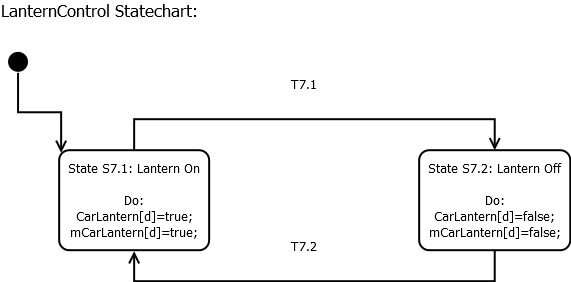
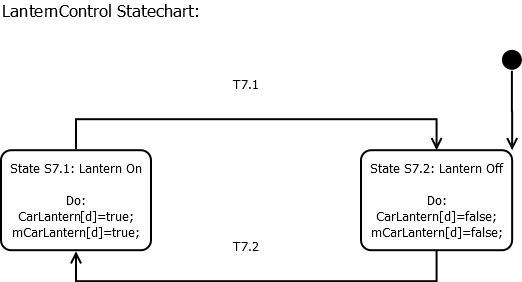
Did editing for req file -Harsha

diff --git a/portfolio_template/reqs/requirements2.html b/portfolio_template/reqs/requirements2.html
@@ -55,6 +55,7 @@
 
 
 
+
     Sally Stevenson (ststeven)<br>
     &nbsp;&nbsp;&nbsp; &nbsp;&nbsp;&nbsp; &nbsp;&nbsp;&nbsp;
     &nbsp;&nbsp;&nbsp;&nbsp;&nbsp; Sri Harsha Koppaka (skoppaka)<br>
@@ -1071,11 +1072,13 @@
     DoorMotor[b,r]<br>
     <p class="MsoNormal" style=""> </p>
     <h3>Time-Triggered Statechart</h3>
-    <p><a href="sc5.png"><img alt="DoorControl Statechart" src="sc5.png"></a><br
-        clear="left">
+    <p><a href="doorcontrol_state_diagram.png"><img alt="DoorControl
+          Statechart" src="doorcontrol_state_diagram.png" height="512"
+          border="0" width="766"></a><br>
+      <br clear="left">
     </p>
-    <table style="text-align: left;" border="1" cellpadding="2"
-      cellspacing="2" height="185" width="526">
+    <table style="text-align: left;" height="185" border="1"
+      cellpadding="2" cellspacing="2" width="526">
       <tbody>
         <tr>
           <td style="vertical-align: top; font-weight: bold;
@@ -1124,8 +1127,8 @@
     </table>
     <br>
     <h3>Requirements-to-Statecharts Traceability</h3>
-    <table style="text-align: left;" border="1"
-      cellpadding="2" cellspacing="2">
+    <table style="text-align: left;" border="1" cellpadding="2"
+      cellspacing="2">
       <tbody>
         <tr>
           <td style="vertical-align: top; background-color: rgb(204,
@@ -1667,15 +1670,13 @@
     DriveSpeed.<br>
     <br>
     <h3>TIME-TRIGGERED STATE CHART: </h3>
-    DriveControl State Chart:<br>
-    <br>
-    &nbsp;<br>
+    &nbsp; <br>
     <a href="drivecontrol_state_diagram.png"><img alt=""
-        src="drivecontrol_state_diagram.png" border="0" height="483"
+        src="drivecontrol_state_diagram.png" height="483" border="0"
         width="748"></a><br>
     <br>
     <br>
-    <table border="1" cellpadding="2" cellspacing="2" height="424"
+    <table height="424" border="1" cellpadding="2" cellspacing="2"
       width="699">
       <tbody>
         <tr>
@@ -1761,8 +1762,8 @@
     <h2>&nbsp;<br>
     </h2>
     <h3>Requirements-to-Statecharts Traceability</h3>
-    <table style="text-align: left;" border="1" cellpadding="2"
-      cellspacing="2" height="664" width="688">
+    <table style="text-align: left;" height="664" border="1"
+      cellpadding="2" cellspacing="2" width="688">
       <tbody>
         <tr>
           <td style="vertical-align: top; background-color: rgb(204,
@@ -2206,7 +2207,9 @@
     should turn off. <br>
     <p class="MsoNormal" style=""> </p>
     <h3>Time-Triggered Statechart</h3>
-    <p> <img alt="Testlight Statechart" src="sc7.png"><br clear="left">
+    <p> <a href="lanterncontrol_state_diagram.png"><img alt="Testlight
+          Statechart" src="lanterncontrol_state_diagram.png"
+          height="282" border="0" width="522"></a><br clear="left">
     </p>
     <br style="font-weight: bold;">
     <table style="text-align: left;" border="1" cellpadding="2"
@@ -2355,13 +2358,13 @@
       8.3 &nbsp;&nbsp; mHallLight[f,b,d] shall be set to current state
       of HallLight[f,b,d].<br>
     </p>
-    &nbsp; <a href="statechart-HallButtonControl.png"><img
+    &nbsp; <a href="hallbuttoncontrol_state_diagram.png"><img
         alt="statechart-HallButtonControl"
-        src="statechart-HallButtonControl.png" border="0" height="232"
-        width="438"></a><br>
+        src="hallbuttoncontrol_state_diagram.png" height="232"
+        border="0" width="438"></a><br>
     <br>
-    <table style="text-align: left;" border="1" cellpadding="2"
-      cellspacing="2" height="185" width="526">
+    <table style="text-align: left;" height="185" border="1"
+      cellpadding="2" cellspacing="2" width="526">
       <tbody>
         <tr>
           <td style="vertical-align: top; font-weight: bold;
@@ -2548,11 +2551,13 @@
     value of CarLight[f, b].<br>
     <p class="MsoNormal" style=""> </p>
     <h3>Time-Triggered Statechart</h3>
-    <p><a href="sc9.png"><img alt="CarButtonControl Statechart"
-          src="sc9.png"></a><br clear="left">
+    <p><a href="carbuttoncontrol_state_diagram.png"><img
+          alt="CarButtonControl Statechart"
+          src="carbuttoncontrol_state_diagram.png" height="273"
+          border="0" width="426"></a><br clear="left">
     </p>
-    <table style="text-align: left;" border="1" cellpadding="2"
-      cellspacing="2" height="185" width="526">
+    <table style="text-align: left;" height="185" border="1"
+      cellpadding="2" cellspacing="2" width="526">
       <tbody>
         <tr>
           <td style="vertical-align: top; font-weight: bold;
@@ -2739,7 +2744,10 @@
     CurrentFloor.&nbsp;
     <p class="MsoNormal" style=""> </p>
     <h3>Time-Triggered Statechart</h3>
-    <p> <img alt="Testlight Statechart" src="sc10.png"><br clear="left">
+    <p> <a href="carpositioncontrol_state_diagram.png"><img
+          alt="Testlight Statechart"
+          src="carpositioncontrol_state_diagram.png" height="271"
+          border="0" width="328"></a><br clear="left">
     </p>
     <br style="font-weight: bold;">
     <table style="text-align: left;" border="1" cellpadding="2"
@@ -2871,10 +2879,10 @@
     Dispatcher State Chart:<br>
     <br>
     <a href="dispatcher_state_diagram.png"><img alt=""
-        src="dispatcher_state_diagram.png" border="0" height="483"
+        src="dispatcher_state_diagram.png" height="483" border="0"
         width="1065"></a><br>
     <br>
-    <table border="1" cellpadding="2" cellspacing="2" height="396"
+    <table height="396" border="1" cellpadding="2" cellspacing="2"
       width="720">
       <tbody>
         <tr>
@@ -2967,8 +2975,8 @@
     </table>
     <br>
     <h3>Requirements-to-Statecharts Traceability</h3>
-    <table style="text-align: left;" border="1" cellpadding="2"
-      cellspacing="2" height="768" width="719">
+    <table style="text-align: left;" height="768" border="1"
+      cellpadding="2" cellspacing="2" width="719">
       <tbody>
         <tr>
           <td style="vertical-align: top; background-color: rgb(204,
